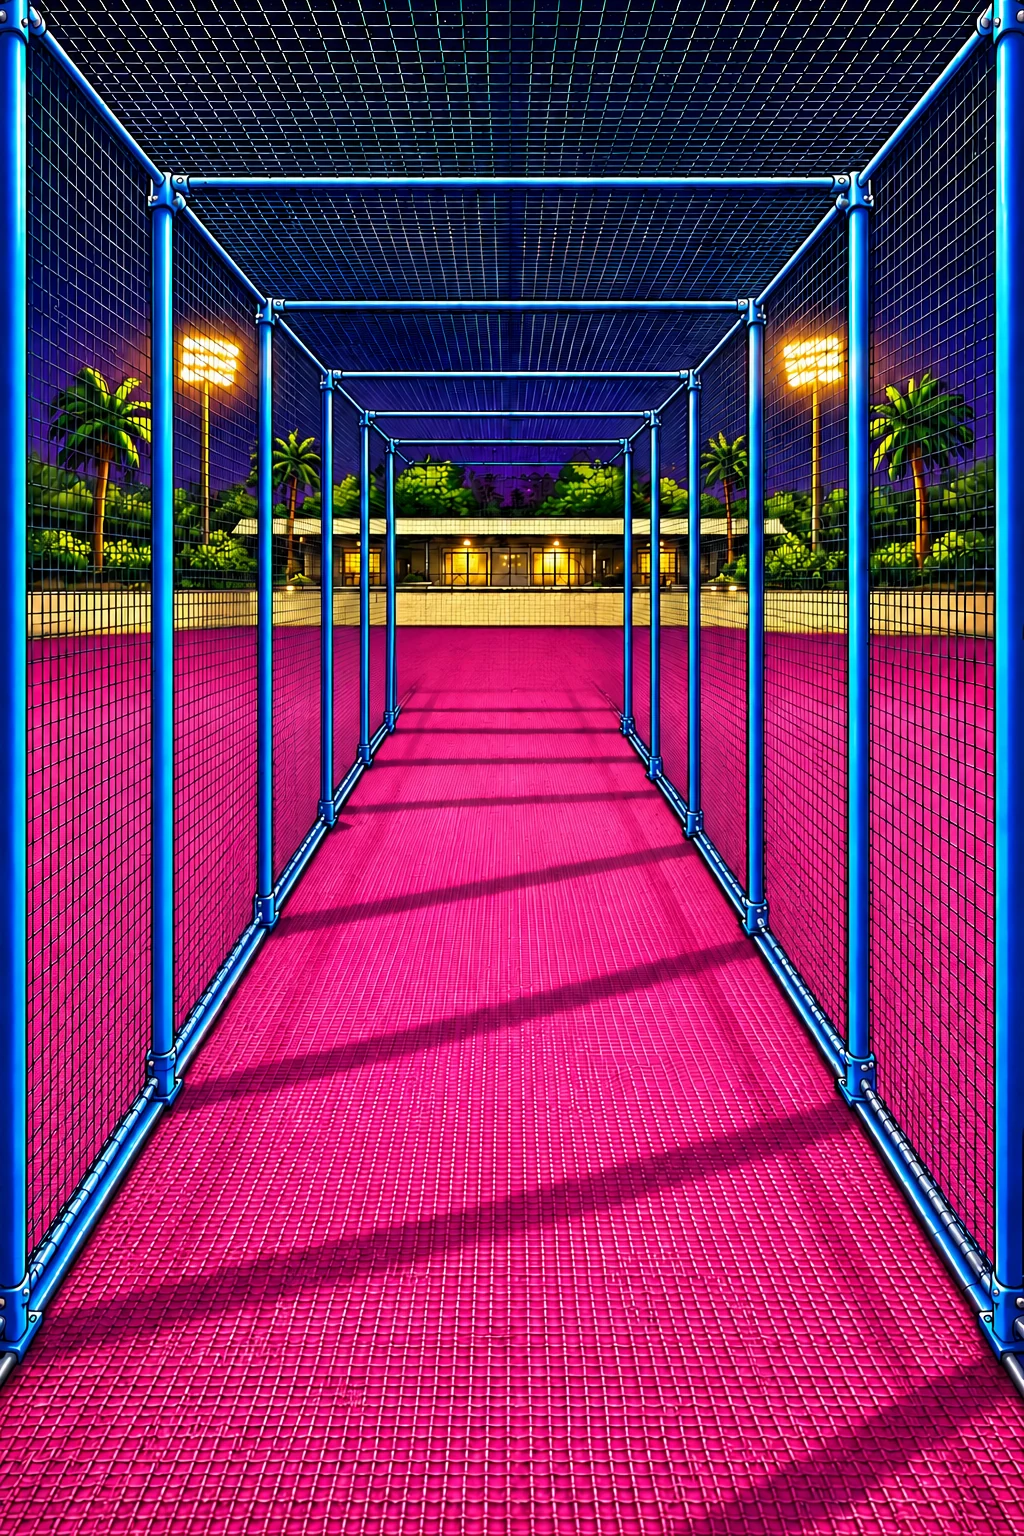
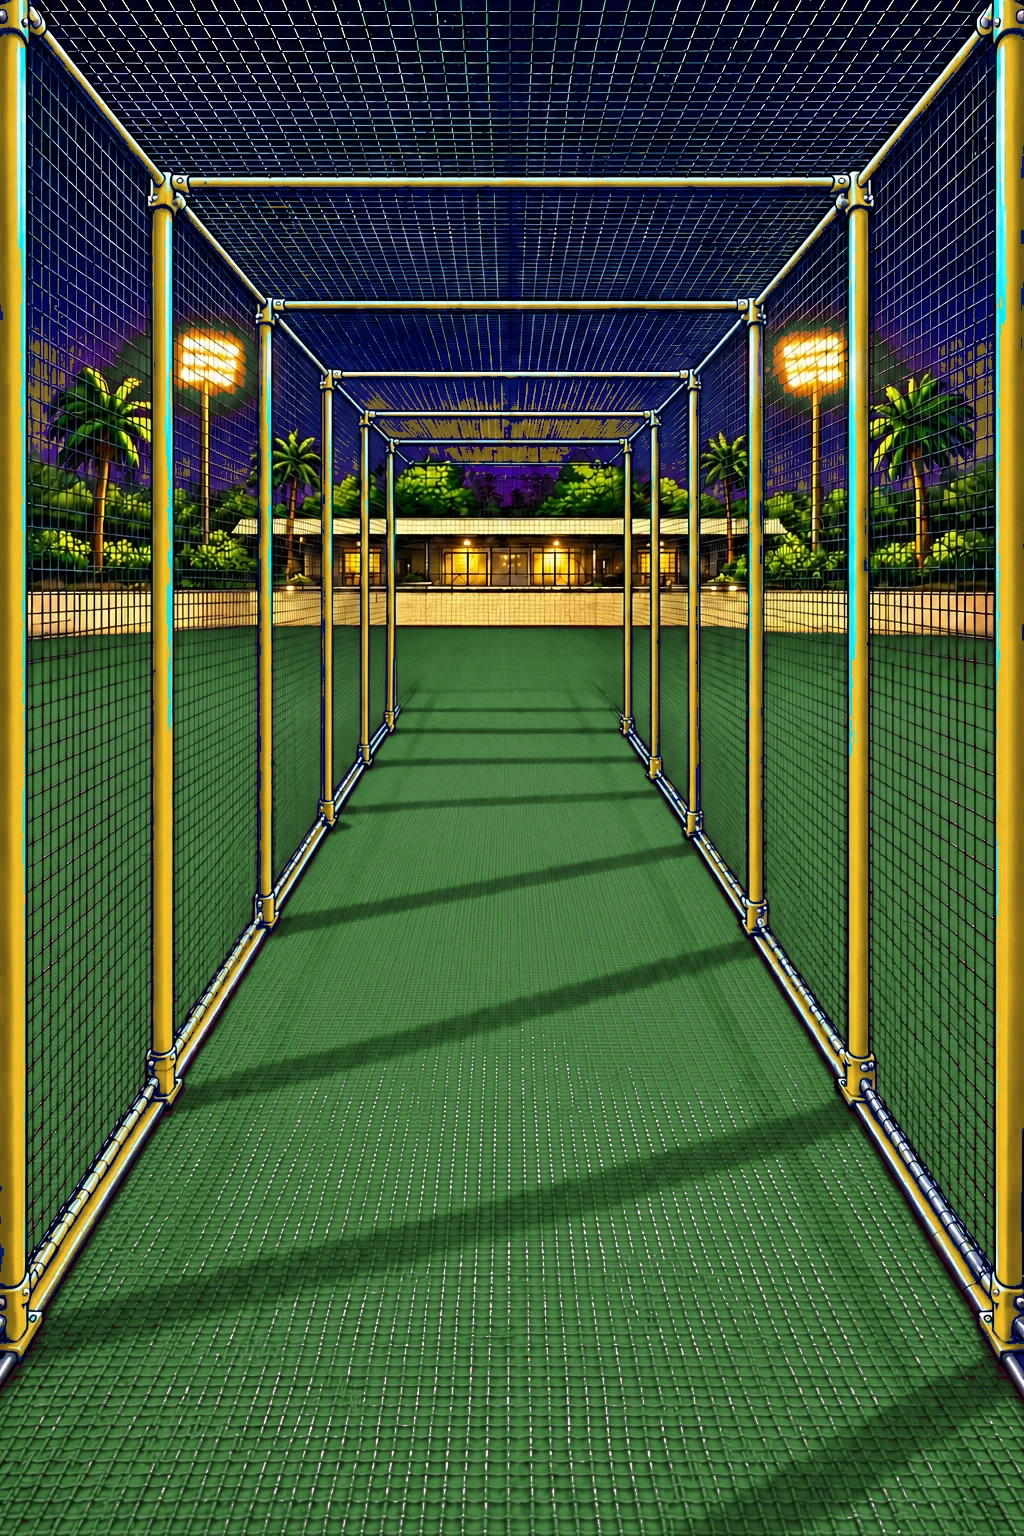
Nets: nobody in the field and no Set Field button or map tap (the nets have no field), the old 'drag the ball' hint is gone, and the bowling nets picture is recoloured to match the batting nets (green mat, gold poles) instead of pink and bright blue
Claude-Session: https://claude.ai/code/session_01NK7tbrKg5PdA6fuyEUPXLd

diff --git a/js/game.js b/js/game.js
@@ -1000,7 +1000,7 @@ export class Game {
     if (btype.left) S.bowler.x = -0.6;
     const rng = this.ballRng(ballNo);
     const aiField = mirrorField(buildField(this.aiFieldPreset(ballNo), ballNo <= 12), left);
-    S.field3d = aiField.filter(f => !f.keeper && f.id !== 'bowler');
+    S.field3d = this.nets ? [] : aiField.filter(f => !f.keeper && f.id !== 'bowler');   // (the nets: nobody in the field)
     spec = this.mindBowlPower(inn, ballNo, spec, striker, bowler, opt);   // (with a mind it may fire the power of its bowler's type now)
     if (spec.power === 'storm') this.aiStorm = 3;
     const stormNow = this.aiStorm > 0 && !opt.scripted;   // (Swing Storm: three balls that swing and seam twice as much)
@@ -2139,7 +2139,7 @@ export class Game {
     const kind = bowler.bowl || 'swing';
     const profile = striker.ai;
     let field = this.currentField(ballNo, leftBat);
-    S.field3d = field.filter(f => !f.keeper && f.id !== 'bowler');
+    S.field3d = this.nets ? [] : field.filter(f => !f.keeper && f.id !== 'bowler');   // (the nets: nobody in the field)
     S.weak = this.scouted && !opt.scripted ? profile.weak : null;
     S.glowZone = opt.glow || null;
 
@@ -2194,7 +2194,7 @@ export class Game {
       if (G !== 'field') break;
       await this.editField(ballNo);
       field = this.currentField(ballNo, leftBat);
-      S.field3d = field.filter(f => !f.keeper && f.id !== 'bowler');
+      S.field3d = this.nets ? [] : field.filter(f => !f.keeper && f.id !== 'bowler');
       this.view = 'bowl';
       if (hint) this.ui.hint(hint);
     }
@@ -2491,10 +2491,10 @@ export class Game {
     let pts = null, done = null;
     const gd = pts => gestureToDelivery(pts, kind, scale);
     this.fieldEditRequested = false;
-    this.ui.fieldButton(true, () => { if (!pts) this.fieldEditRequested = true; });
+    this.ui.fieldButton(!this.nets, () => { if (!pts) this.fieldEditRequested = true; });   // (the nets have no field to set)
     this.onInput = (type, g) => {
       if (type === 'down') {
-        if (this.inMap(g)) { this.fieldEditRequested = true; return; }
+        if (!this.nets && this.inMap(g)) { this.fieldEditRequested = true; return; }
         if (g.y < this.H * 0.28 || this.realTime < this.powerFxUntil) return;
         pts = [{ x: g.x, y: g.y, t: g.t }];
         S.runStart = this.realTime;
@@ -3358,7 +3358,7 @@ export class Game {
         const wk = inn.wkts;
         const wp = powerBall && inn.balls === N - 1 ? powersOf(cand).bowl : null;
         if (wp && !this.altArmed(wp.kind)) await this.trialPower('bowlpower');   // (and again if a no-ball used it up)
-        let r = await this.bowlBall(inn, inn.balls + 1, { hint: wp ? `POWER BALL · ${wp.name.toUpperCase()} · SWIPE UP THE PITCH` : inn.balls === 0 ? 'DRAG THE BALL TO SET HOW IT MOVES · THEN SWIPE FROM YOUR BOWLER UP THE PITCH' : undefined });
+        let r = await this.bowlBall(inn, inn.balls + 1, { hint: wp ? `POWER BALL · ${wp.name.toUpperCase()} · SWIPE UP THE PITCH` : inn.balls === 0 ? 'SWIPE FROM YOUR BOWLER UP THE PITCH · CURVE IT TO SWING OR SPIN IT' : undefined });
         if (this.endNoBall(inn)) { r = { rebowl: true }; this.rebowls = (this.rebowls || 0) + 1; }   // (a no-ball in the nets does not count either: without this every ball after it was played as a no-ball, and the six never ended)
         if (!inn.cur.id) inn.setBatter(netBat);
         if (inn.wkts > wk) inn.setPartner(netMate);
